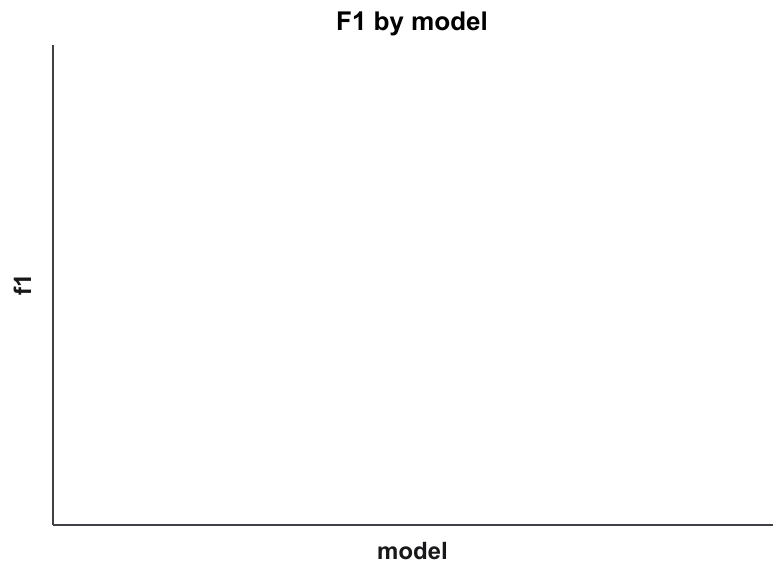
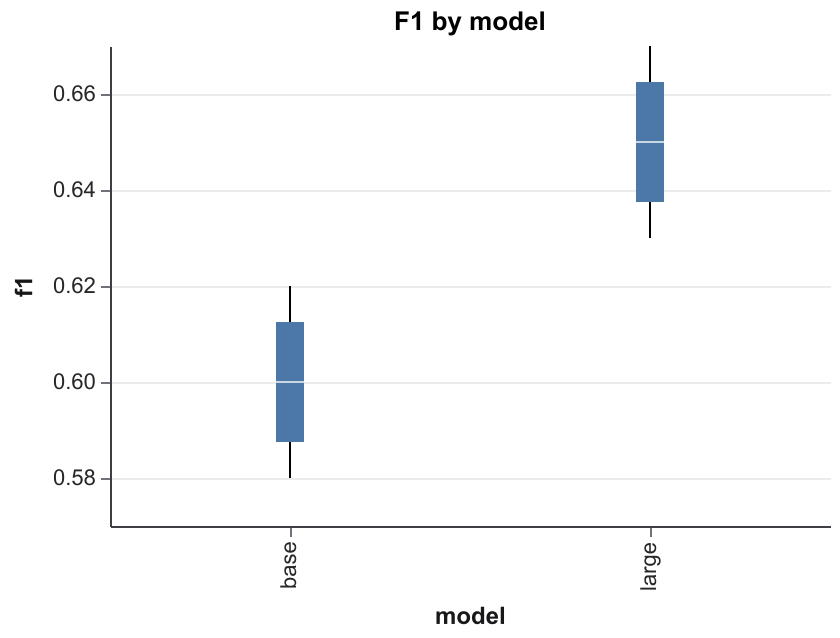
fix: resolve relative data.url when rendering themed specs
Write temporary specs beside the source file so vl2png/vl2svg can load
relative CSV paths. Regenerate gallery PNGs for examples that use data.url.

diff --git a/packages/cli/src/core/render.ts b/packages/cli/src/core/render.ts
@@ -1,6 +1,6 @@
-import { mkdir, mkdtemp, writeFile } from "node:fs/promises";
-import { tmpdir } from "node:os";
-import { dirname, join } from "node:path";
+import { randomBytes } from "node:crypto";
+import { mkdir, rm, writeFile } from "node:fs/promises";
+import { dirname, join, resolve } from "node:path";
 import { renderWithExternalVegaCli } from "../backends/external-vega-cli";
 import type { RenderFormat } from "./render-format";
 import { applyThemeToSpec, detectSpecType, loadJsonSpec } from "./spec";
@@ -29,21 +29,25 @@ export async function renderChart(request: RenderRequest): Promise<RenderResult>
 
   await mkdir(dirname(request.outputPath), { recursive: true });
 
-  const tempDirectory = await mkdtemp(join(tmpdir(), "vega-paper-"));
+  const specDirectory = dirname(resolve(request.inputPath));
   const tempSpecPath = join(
-    tempDirectory,
-    specType === "vega-lite" ? "spec.vl.json" : "spec.vg.json",
+    specDirectory,
+    `.vega-paper-render-${randomBytes(8).toString("hex")}.${specType === "vega-lite" ? "vl" : "vg"}.json`,
   );
 
   await writeFile(tempSpecPath, `${JSON.stringify(renderedSpec, null, 2)}\n`, "utf8");
 
-  await renderWithExternalVegaCli({
-    specType,
-    inputPath: tempSpecPath,
-    outputPath: request.outputPath,
-    format: request.format,
-    scale: request.scale,
-  });
+  try {
+    await renderWithExternalVegaCli({
+      specType,
+      inputPath: tempSpecPath,
+      outputPath: request.outputPath,
+      format: request.format,
+      scale: request.scale,
+    });
+  } finally {
+    await rm(tempSpecPath, { force: true });
+  }
 
   return {
     outputPath: request.outputPath,

diff --git a/packages/cli/test/render.integration.test.ts b/packages/cli/test/render.integration.test.ts
@@ -32,6 +32,33 @@ describe("render integration", () => {
     expect(svg).toContain("<svg");
     expect(svg).toContain("</svg>");
   });
+
+  test("renders specs with relative data.url using the source spec directory", async () => {
+    const boxplotOutputPath = "examples/boxplot/output.svg";
+
+    if (!(await hasVegaLiteSvgBinary())) {
+      console.warn("Skipping render integration: no vl2svg binary is installed.");
+      return;
+    }
+
+    await rm(boxplotOutputPath, { force: true });
+    await mkdir(dirname(boxplotOutputPath), { recursive: true });
+
+    try {
+      await renderChart({
+        inputPath: "examples/boxplot/chart.vl.json",
+        outputPath: boxplotOutputPath,
+        format: "svg",
+        themeName: "paper-clean",
+      });
+
+      const svg = await readFile(boxplotOutputPath, "utf8");
+      expect(svg).not.toContain("0 values");
+      expect(svg).toContain("role-mark");
+    } finally {
+      await rm(boxplotOutputPath, { force: true });
+    }
+  });
 });
 
 async function hasVegaLiteSvgBinary(): Promise<boolean> {
